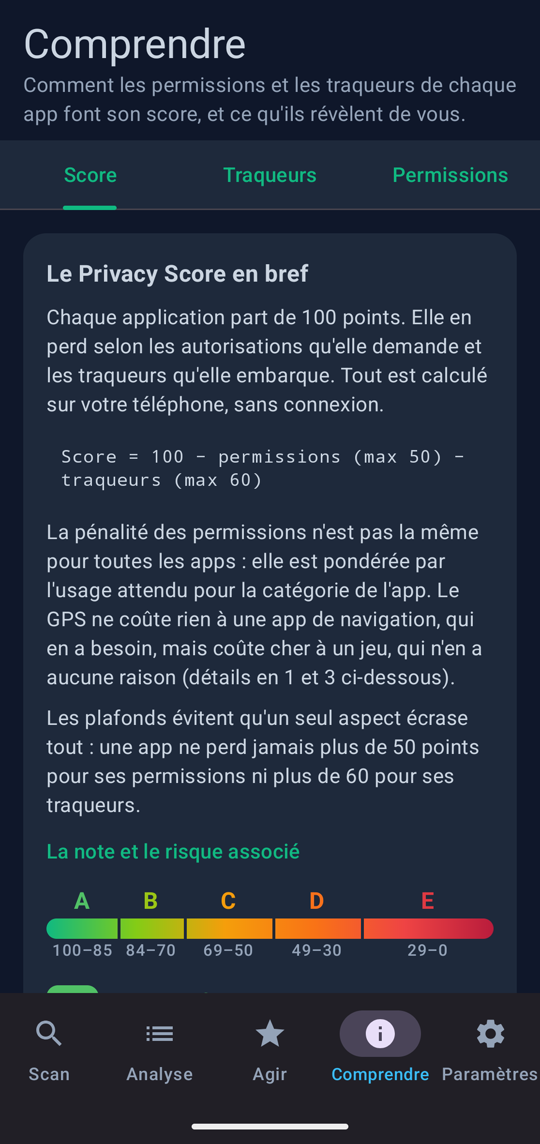
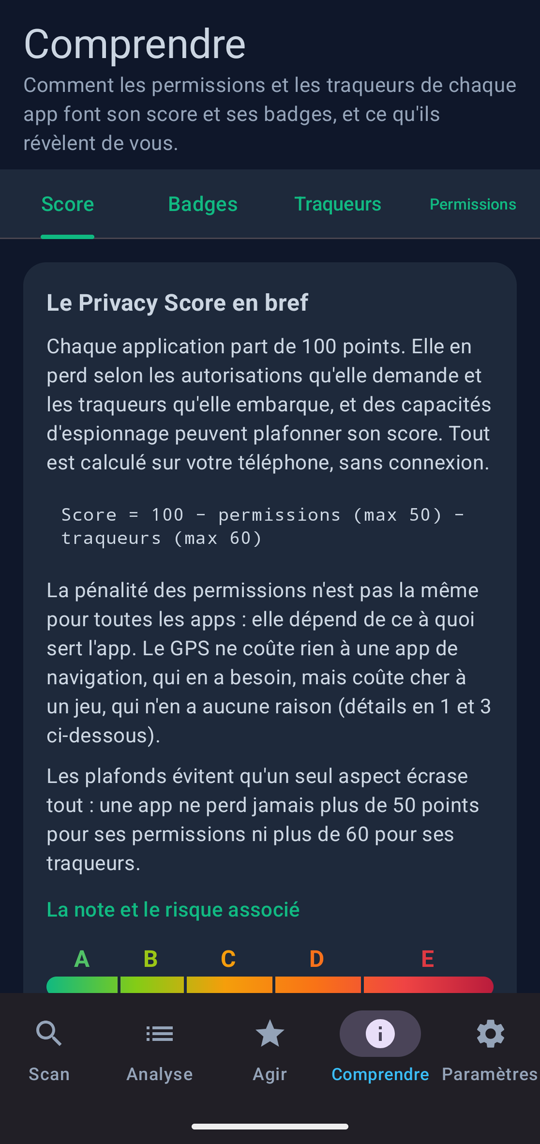
README: screenshots of Understand (score and badges), scoring grid and About; splash shots removed

Changed region(s): [[0.0593, 0.0918, 0.9185, 0.8872], [0.7407, 0.153, 0.9481, 0.1836]]

diff --git a/README.md b/README.md
@@ -14,10 +14,10 @@ mises en avant autant que les dérives, et des gestes concrets pour reprendre la
 
 ## Aperçu
 
-| | | | | |
-|:---:|:---:|:---:|:---:|:---:|
-| <img src="docs/screenshots/intro-scan.png" width="170" alt="Intro : une loupe parcourt une grille d'applis, les applis intrusives se révèlent en petits espions à chapeau et lunettes noires"> | <img src="docs/screenshots/intro-eclipse.png" width="170" alt="Intro : les petits espions s'éclipsent en flottant, les applis saines restent en vert et orange"> | <img src="docs/screenshots/comprendre.png" width="170" alt="Onglet Comprendre : le Privacy Score en bref, formule et échelle des notes A à E"> | <img src="docs/screenshots/grille-de-score.png" width="170" alt="Grille de score : capacités conditionnelles et permissions justifiées par catégorie"> | <img src="docs/screenshots/a-propos.png" width="170" alt="À propos : logo VYLIA, version, Yogi Studio et engagement de vie privée"> |
-| Intro : le scan | Intro : les espions s'éclipsent | Comprendre | Grille de score | À propos |
+| | | | |
+|:---:|:---:|:---:|:---:|
+| <img src="docs/screenshots/comprendre.png" width="200" alt="Onglet Comprendre : le Privacy Score en bref, formule et échelle des notes A à E"> | <img src="docs/screenshots/comprendre-badges.png" width="200" alt="Comprendre, sous-onglet Badges : chaque badge, sa signification et sa règle en clair"> | <img src="docs/screenshots/grille-de-score.png" width="200" alt="Grille de score : capacités conditionnelles et permissions justifiées par catégorie"> | <img src="docs/screenshots/a-propos.png" width="200" alt="À propos : logo VYLIA, version, Yogi Studio et engagement de vie privée"> |
+| Comprendre | Les badges et leurs règles | Grille de score | À propos |
 
 ## Ce qu'elle fait
 
